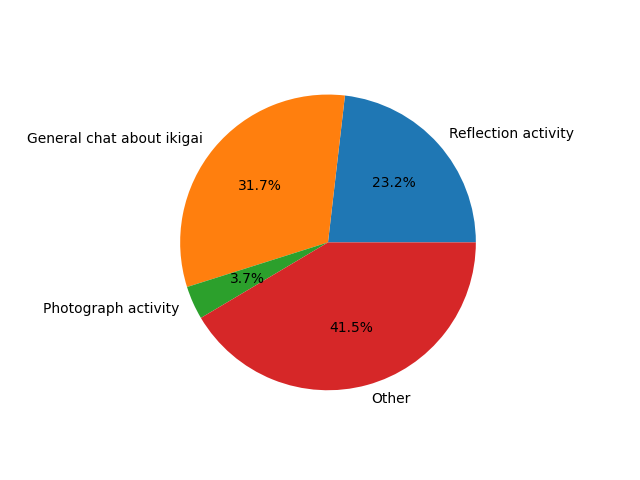
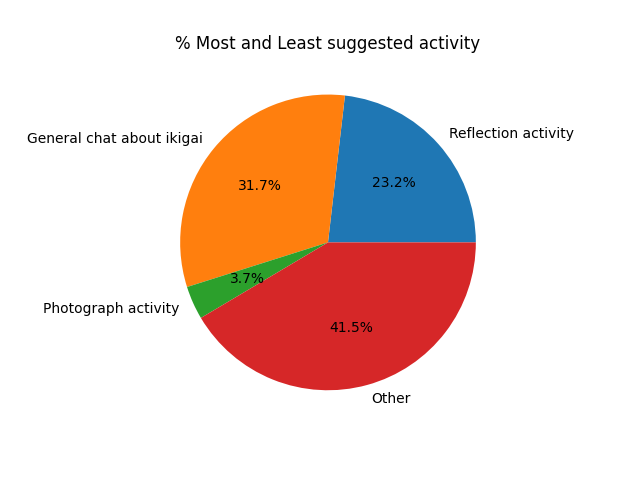
pseudo_final graphs

Changed region(s): [[0.2812, 0.0625, 0.75, 0.125]]

diff --git a/main.py b/main.py
@@ -1,6 +1,11 @@
 import pandas as pd
 import matplotlib.pyplot as plt
+from matplotlib import pyplot as plt, dates
 from datetime import datetime
+import numpy as np
+import random
+import seaborn as sns
+import matplotlib.dates as md
 
 def load_and_write_data(read_filepath, write_filepath):
     df = pd.read_excel(read_filepath)
@@ -67,28 +72,53 @@ def load_and_write_data(read_filepath, write_filepath):
                     in_x_values.append(datetime.combine(datetime.today(), dataframe['Inappropriate time to use IRIS'][row]))
                     in_y_values.append(dataframe['IKIGAI level to not use IRIS'][row])
 
-        plt.scatter(ap_x_values, ap_y_values)
-        plt.scatter(in_x_values, in_y_values)
+        fig, ax = plt.subplots()
+        ax.scatter(ap_x_values, ap_y_values)
+        ax.scatter(in_x_values, in_y_values)
         plt.grid()
         plt.gcf().autofmt_xdate()
-        plt.title('Appropriate and Inappropriate times vs Ikigai Level')
+        ax.xaxis.set_major_formatter(dates.DateFormatter('%H:%M'))
+        plt.ylabel('Effect on IKIGAI %')
+        plt.title('Appropriate(blue) /Inappropriate(orange) times vs Ikigai Level')
         plt.savefig('Appropriate and Inappropriate times vs Ikigai Level.png')
         plt.show()
 
-    def activity_vs_time(dataframe):
-        x_activity_labels = []
-        y_time_labels = []
+
+    def IRIS_activity_vs_time_scatterplot(dataframe):
+        y_activity_labels = []
+        x_time_labels = []
 
         for row in dataframe.index:
             if row != 0 and dataframe['Q9'][row] == 'Yes':
-                x_activity_labels.append(dataframe['Q10'][row] if dataframe['Q10'][row] in ['Reflection activity', 'General chat about ikigai', 'Photograph activity'] else 'Other')
-                y_time_labels.append(datetime.combine(datetime.today(), dataframe['StartDate'][row].time()))
+                y_activity_labels.append(dataframe['Q10'][row] if dataframe['Q10'][row] in ['Reflection activity', 'General chat about ikigai', 'Photograph activity'] else 'Other')
+                x_time_labels.append(datetime.combine(datetime.today(), dataframe['StartDate'][row].time()))
 
-        plt.scatter(x_activity_labels, y_time_labels)
-        plt.grid()
+        fig, ax = plt.subplots()
+        ax.scatter(x_time_labels, y_activity_labels)
+        plt.tick_params(rotation=45)
         plt.gcf().autofmt_xdate()
-        plt.title('Time vs preferred activity')
-        plt.savefig('Time vs preferred activity.png')
+        ax.xaxis.set_major_formatter(dates.DateFormatter('%H:%M'))
+        plt.grid()
+        plt.savefig('IRIS_activity_vs_time.png')
+        plt.show()
+
+    def IRIS_activity_vs_ikigai_level(dataframe):
+        y_activity_labels = []
+        x_corresponding_ikigai_level = []
+
+        for row in dataframe.index:
+            if dataframe['Q9'][row] == 'Yes':
+                Q10list = dataframe['Q10'][row].split(',')
+                for activity in Q10list:
+                    if activity != ' please specify:':
+                        y_activity_labels.append(activity)
+                        x_corresponding_ikigai_level.append(dataframe['IKIGAI level to use IRIS'][row])
+
+        plt.scatter(x_corresponding_ikigai_level, y_activity_labels)
+        plt.xlabel('How much current activity affects IKIGAI %')
+        plt.grid()
+        plt.savefig('IRIS_activity_vs_ikigai_level.png')
+        plt.title('Appropriate IRIS activity vs corresponding IKIGAI Level')
         plt.show()
 
     def most_and_least_utilised_activity(dataframe):
@@ -110,7 +140,96 @@ def load_and_write_data(read_filepath, write_filepath):
             y.append(activity_freq_dict[activity_label])
 
         plt.pie(y, labels = activity_labels, autopct= '%1.1f%%')
+        plt.title('% Most and Least suggested activity')
         plt.savefig('most_and_least_utilised_activity.png')
+        plt.show()
+
+    def who_are_you_with_vs_IRIS_usecounts_plots(dataframe):
+        yes_person_freq_dict = {'Alone': 0,
+                            'Spouse': 0,
+                            'Children': 0,
+                            'Grandchildren': 0,
+                            'Friends': 0,
+                            'Nurse/Care Partners': 0,
+                            'Others':0
+                            }
+
+        no_person_freq_dict = {'Alone': 0,
+                                'Spouse': 0,
+                                'Children': 0,
+                                'Grandchildren': 0,
+                                'Friends': 0,
+                                'Nurse/Care Partners': 0,
+                                'Others': 0
+                                }
+
+        for row in dataframe.index:
+            Q7list = dataframe['Q7'][row].split(',')
+            if dataframe['Q9'][row] == 'Yes':
+                for key in yes_person_freq_dict:
+                    if key in Q7list:
+                        yes_person_freq_dict[key] = yes_person_freq_dict[key] + 1
+            elif dataframe['Q9'][row] =='No':
+                for key in no_person_freq_dict:
+                    if key in Q7list:
+                        no_person_freq_dict[key] = no_person_freq_dict[key]+1
+
+        plt.bar(yes_person_freq_dict.keys(), yes_person_freq_dict.values(), color='green', width=0.3)
+        plt.title('IRIS use count vs who you are with')
+        plt.grid()
+        plt.tick_params(rotation=45)
+        plt.ylabel('Number of times')
+        plt.savefig('Persons and IRIS_use.png')
+        plt.show()
+
+        plt.bar(no_person_freq_dict.keys(), no_person_freq_dict.values(), color='red', width=0.3)
+        plt.title('no IRIS use vs who you are with')
+        plt.grid()
+        plt.tick_params(rotation=45)
+        plt.ylabel('Number of times')
+        plt.savefig('Persons and NO IRIS_use.png')
+        plt.show()
+
+    def IRIS_activity_vs_who_are_you_with(dataframe):
+        person_to_index_dict = {'Alone': 0,
+                                'Spouse': 1,
+                                'Children': 2,
+                                'Grandchildren': 3,
+                                'Friends': 4,
+                                'Nurse/Care Partners': 5,
+                                'Others': 6
+                                }
+
+        IRIS_activity_to_person_dict = {'Others': [0, 0, 0, 0, 0, 0, 0],
+                                        'Reflection activity': [0, 0, 0, 0, 0, 0, 0],
+                                        'General chat about ikigai': [0, 0, 0, 0, 0, 0, 0],
+                                        'Photograph activity': [0, 0, 0, 0, 0, 0, 0]
+                                        }
+        for row in dataframe.index:
+            if dataframe['Q9'][row] == 'Yes':
+                IRIS_activity_list = dataframe['Q10'][row].split(',')
+                # IRIS_activity_list.pop('please specify:')
+                person_list = dataframe['Q7'][row].split(',')
+
+                for activity in IRIS_activity_list:
+                    if activity != ' please specify:':
+                        LIST = IRIS_activity_to_person_dict[activity]
+                        for person in person_list:
+                            if person != ' please specify:':
+                                index = person_to_index_dict[person]
+                                LIST[index] = LIST[index] + 1
+
+
+        for person in person_to_index_dict.keys():
+            for activity in IRIS_activity_to_person_dict.keys():
+                text = IRIS_activity_to_person_dict[activity][person_to_index_dict[person]]
+                if text != 0:
+                    plt.plot(person, activity,  'go', label='marker only')
+                    plt.annotate(text, (person, activity))
+
+        plt.grid()
+        plt.title('who are you with vs desired IRIS activity')
+        plt.savefig('who are you with vs IRIS activity.png')
         plt.show()
 
     things_To_or_Not(df)
@@ -119,8 +238,12 @@ def load_and_write_data(read_filepath, write_filepath):
     appropriate_time_to_use_IRIS(df)
     activity_and_occasion(df)
     time_to_ikigai_plots(df)
-    activity_vs_time(df)
+    IRIS_activity_vs_time_scatterplot(df)
+    IRIS_activity_vs_ikigai_level(df)
     most_and_least_utilised_activity(df)
+    who_are_you_with_vs_IRIS_usecounts_plots(df)
+    IRIS_activity_vs_who_are_you_with(df)
+
 
     df.to_excel(write_filepath)
 
